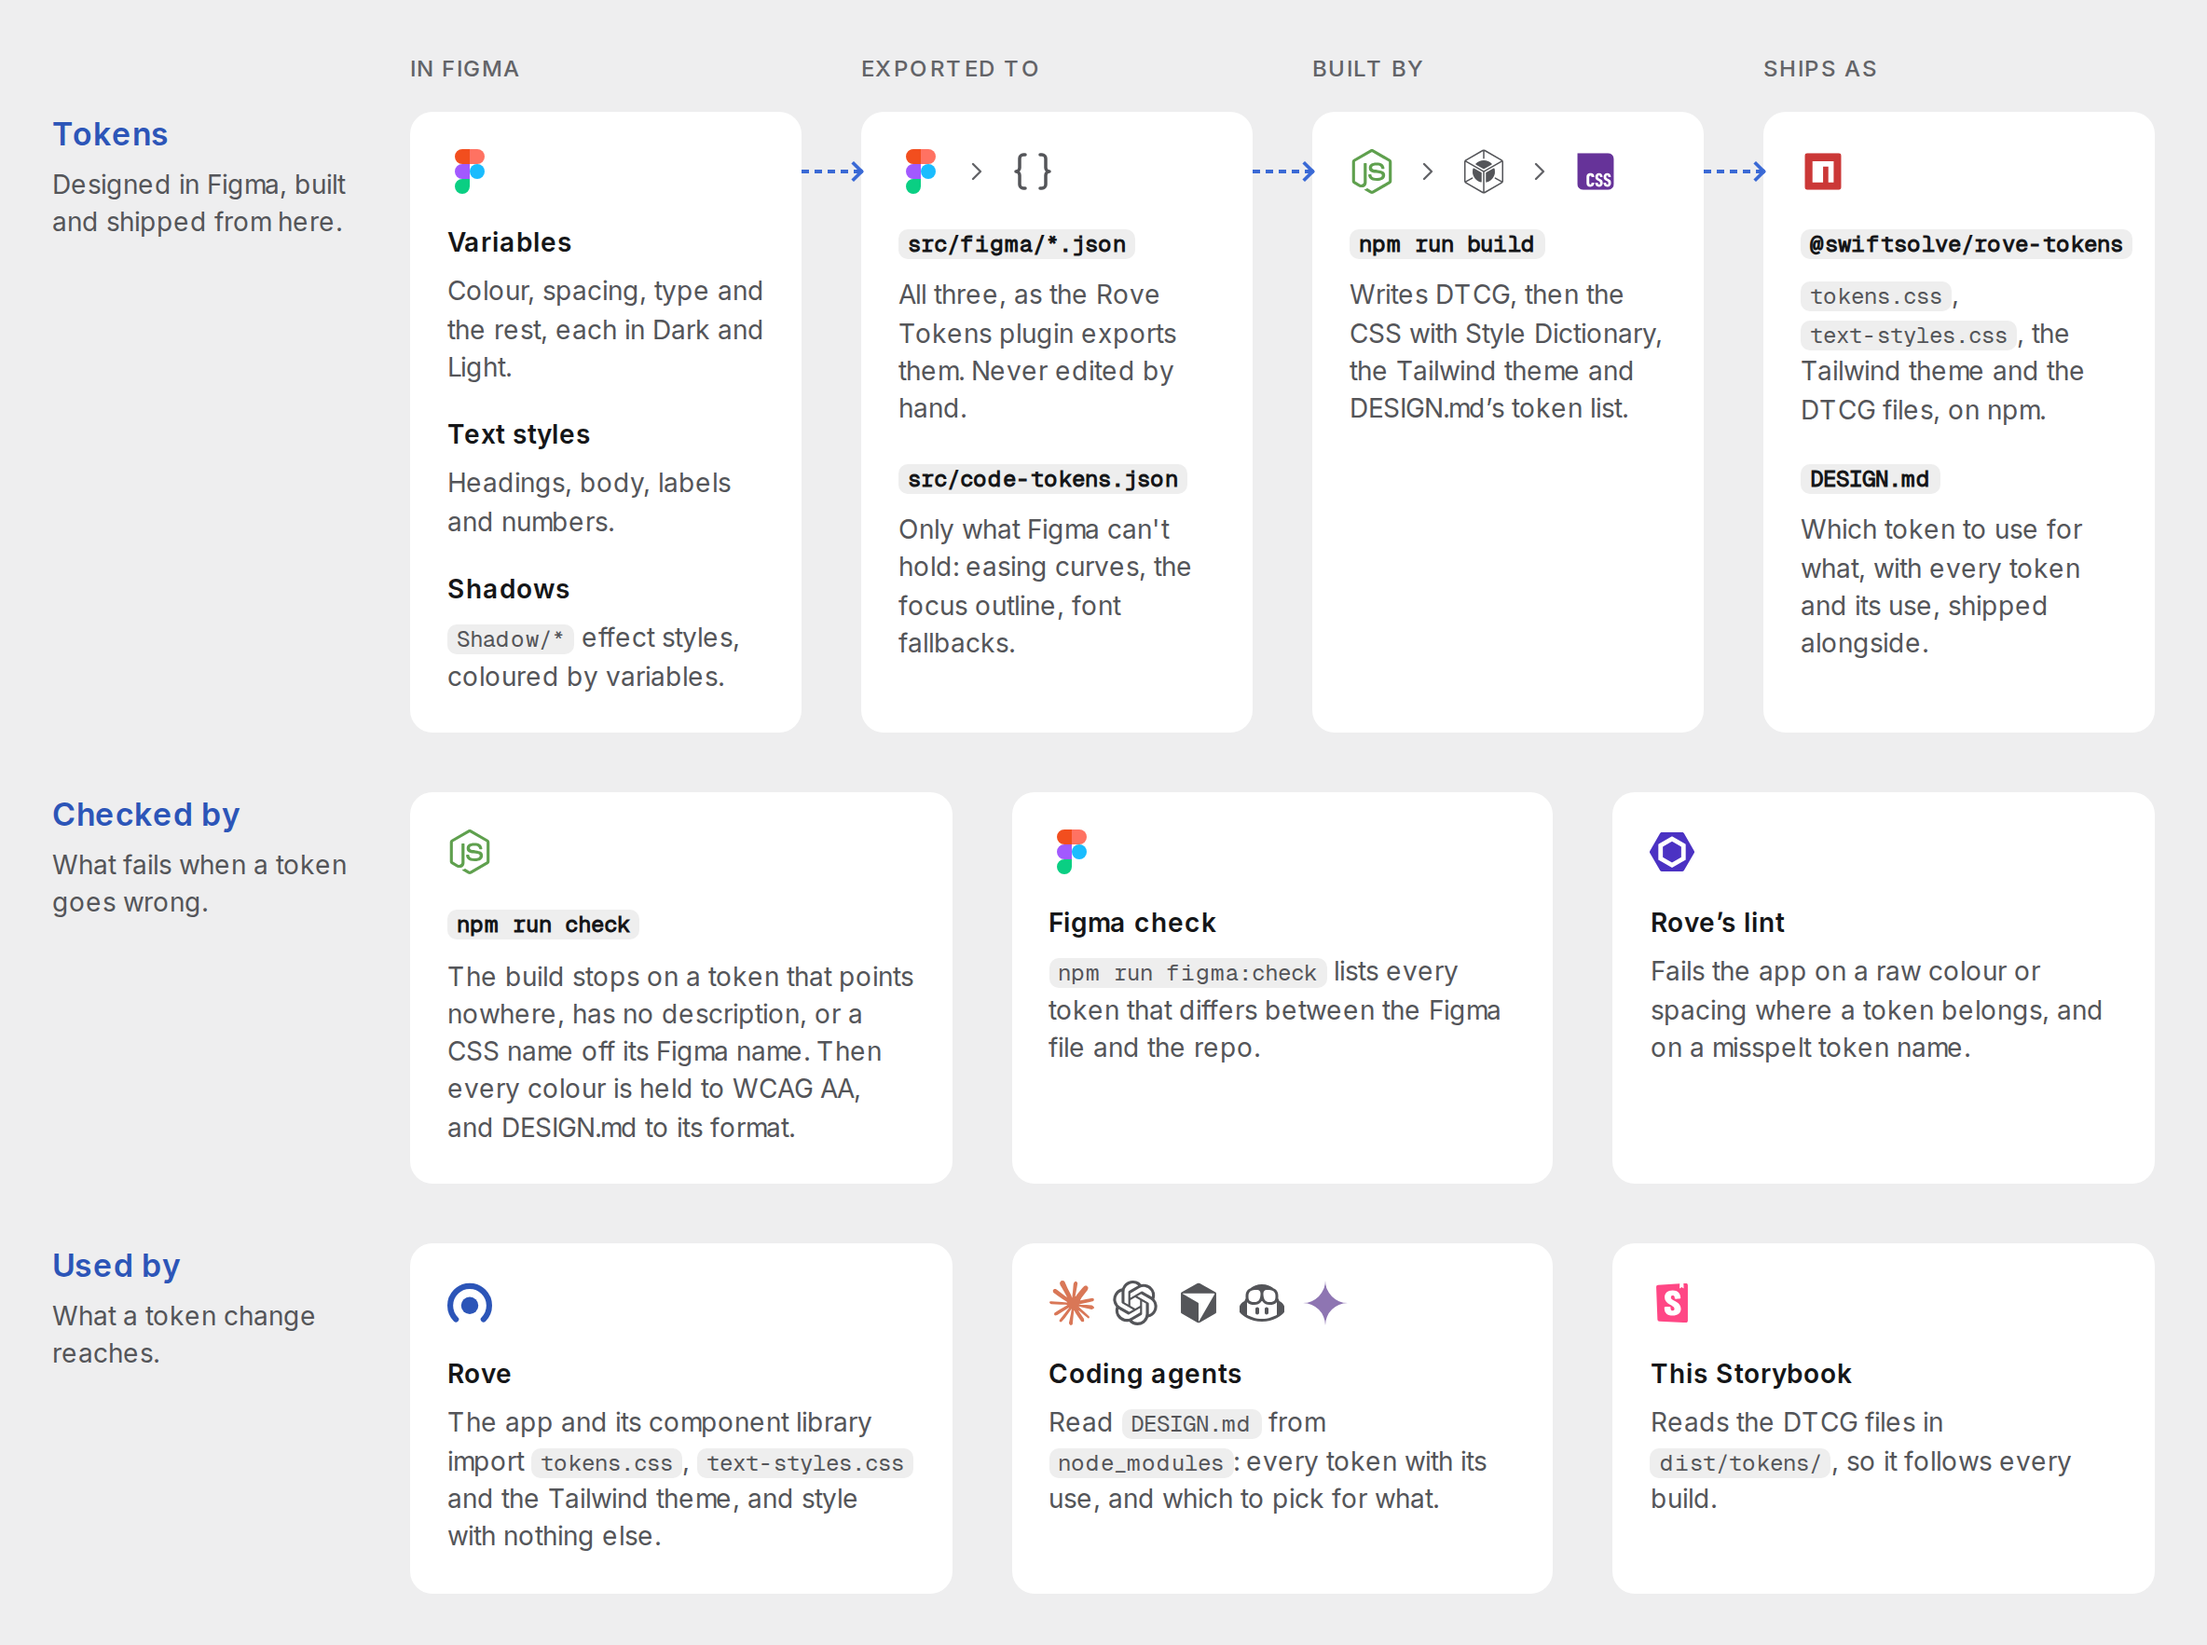
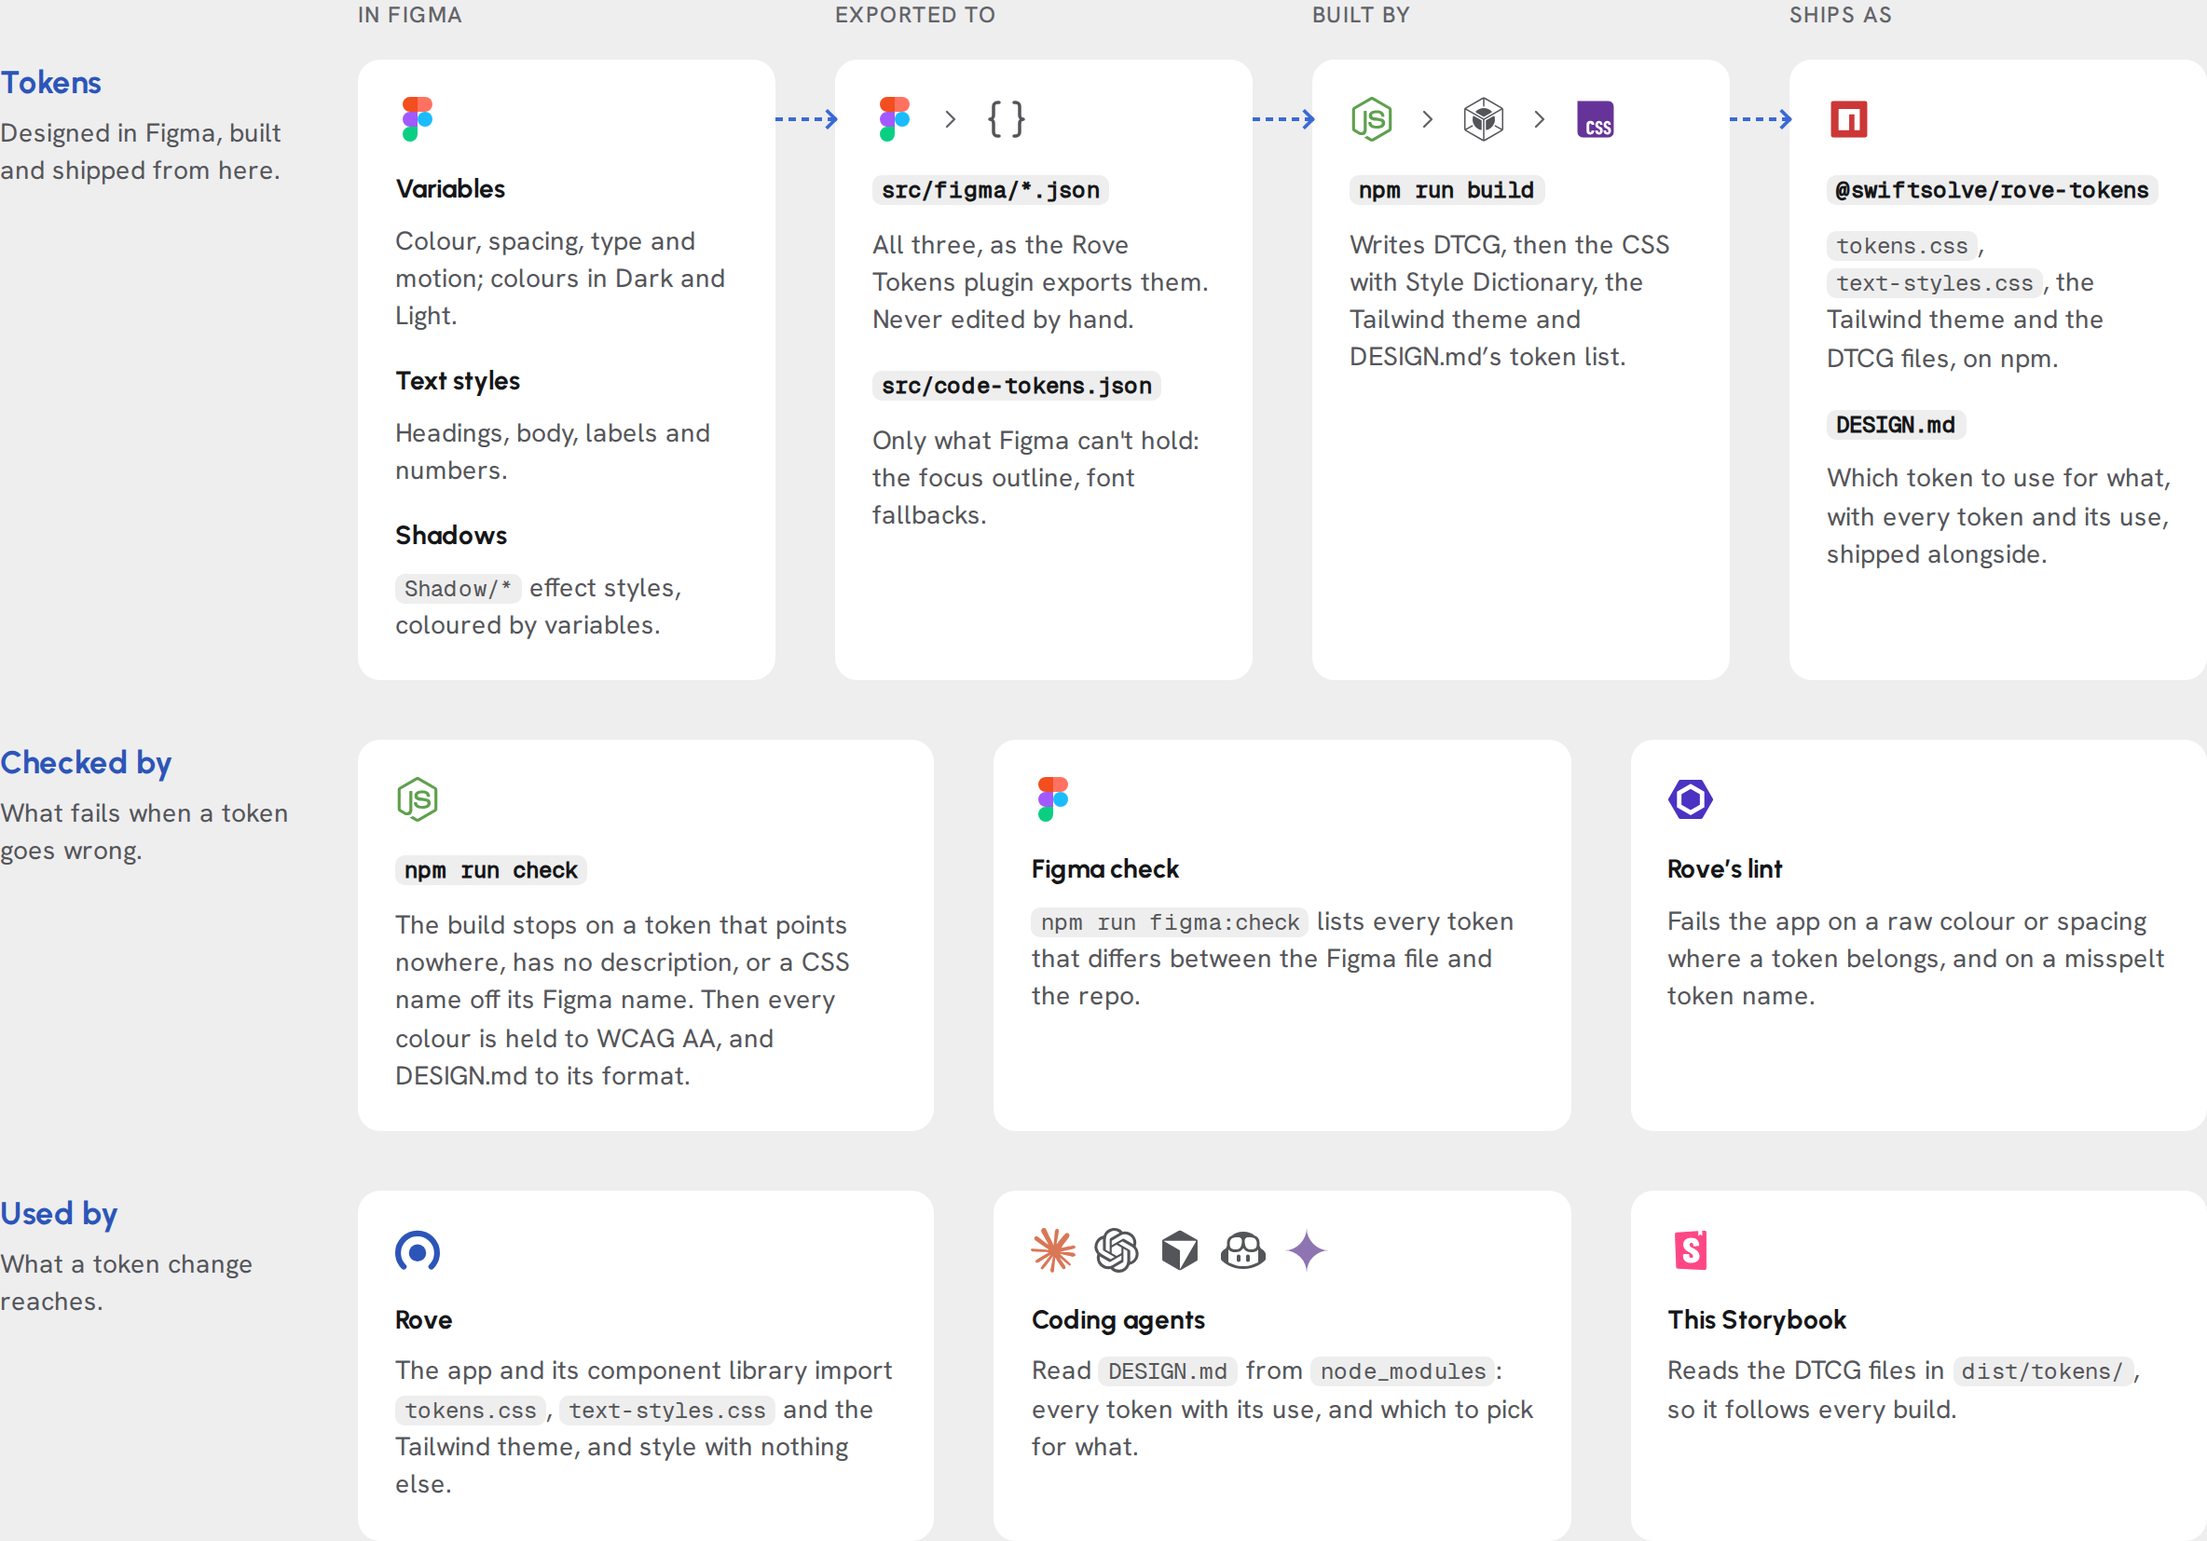
docs(storybook): the Introduction's Variables card names motion, and README's capture of the diagram is retaken now code-tokens.json holds only the focus outline and font fallbacks

diff --git a/stories/introduction.stories.jsx b/stories/introduction.stories.jsx
@@ -231,7 +231,7 @@ const PIPELINES = [
         column: 1,
         icons: ['figma'],
         items: [
-          { name: 'Variables', body: 'Colour, spacing, type and the rest, each in Dark and Light.' },
+          { name: 'Variables', body: 'Colour, spacing, type and motion; colours in Dark and Light.' },
           { name: 'Text styles', body: 'Headings, body, labels and numbers.' },
           { name: 'Shadows', body: '`Shadow/*` effect styles, coloured by variables.' },
         ],

diff --git a/.storybook/preview.jsx b/.storybook/preview.jsx
@@ -30,7 +30,7 @@ const preview = {
   ],
   parameters: {
     layout: 'fullscreen',
-    // In the order of the Figma file's Foundations pages, one story each; Motion is code-only.
+    // In the order of the Figma file's Foundations pages, one story each; Motion shows the Motion variables, which no Foundations page does.
     options: {
       storySort: {
         order: ['Introduction', 'Colour', 'Typography', 'Space, shape & effects', 'Motion'],
